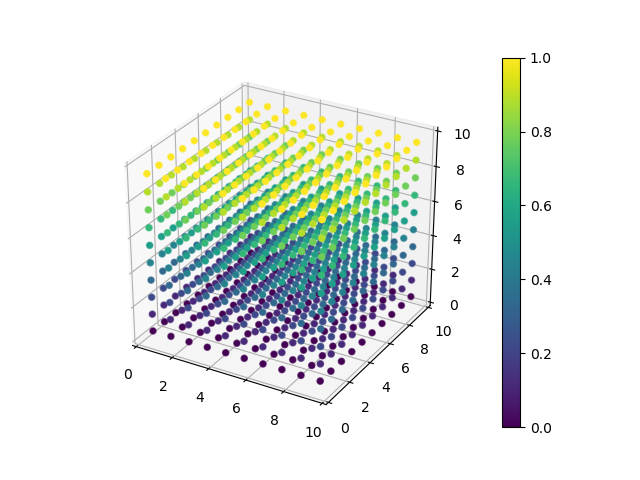
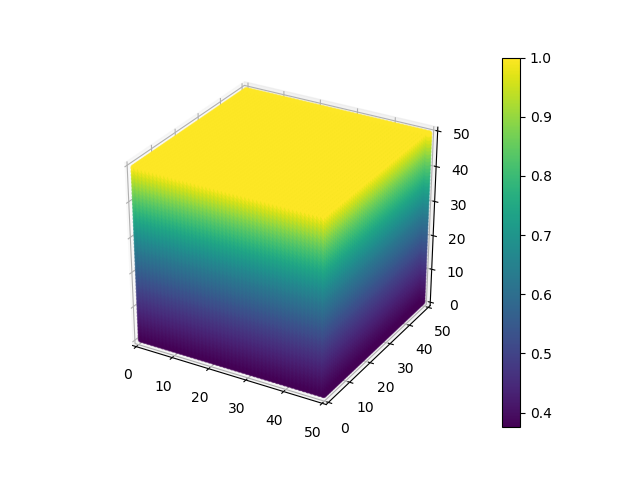
The implementation has been rewritten with certain parts as objects. Grids and scattering events can be defined separately, allowing grids to be re-used. Molecule types have been introduced, allowing a variety of phase functions to be applied. Currently the molecule to scatter from is chosen randoml

diff --git a/scatterer.py b/scatterer.py
@@ -1,11 +1,81 @@
 import numpy as np
+import matplotlib.pyplot as plt
+from mpl_toolkits.mplot3d import Axes3D
+
+# Possibly needs to become an inherited class to
+# allow for different phase functions. Need to think about this.
+class Molecule:
+    def __init__(self, name="no name", phase_SD=np.pi/4):
+        """A class to define molecules with different width phase functions
+        
+        Inputs
+        name : str
+            A name for the molecule, default 'no name'.
+        phase_SD : float
+            Standard deviation (radians) of the molecule's phase function.
+        """
+        self.name = name
+        self.phase_SD = phase_SD
+
+    def phase_func(self):
+        """Gaussian scattering phase function.
+        Returns
+            theta : float
+                A random azimuthal angle theta > 0 from a normal 
+                distribution centred on theta = 0.
+            phi : float
+                A random polar angle phi from a uniform
+                distribution in the range [0, 2*pi].
+        """
+        theta = np.abs(np.random.normal(loc=0.0, scale=self.phase_SD))
+        phi = np.random.uniform()*2*np.pi
+        return theta, phi
+
+    def z_abund_func(self, z):
+        """Simple exponential abundance function.
+        Input
+            z : float
+                Height above the surface, z=0.
+        Returns
+            A(z) : float
+                The relative abundance at height z. """
+        return np.exp(-z)
+
+class Grid:
+    def __init__(self, grid_size=(100,100,100), molecules=['arb']):
+        """A grid instance can be defined with a given grid size and
+        populated with a given set of molecules.
+
+        Inputs
+            grid_size : array-like shape=(3)
+                The number of grid cells along the (x, y, z) axes.
+            molecules : list
+                A list of molecules from the molculeDict to populate
+                the grid with.
+        """
+        self.grid_size = grid_size
+        self.abs_grid  = np.zeros(self.grid_size)
+        self.molecules = []
+        for mol in molecules:
+            self.molecules.append(moleculeDict.get(mol))
+        for i in range(self.grid_size[2]):
+            z = (grid_size[2]-i-1)/self.grid_size[2]
+            for molecule in self.molecules:
+                self.abs_grid[:, :, i] += molecule.z_abund_func(z)
+        self.abs_grid = self.abs_grid/len(self.molecules)
 
 class Scatter:
-    def __init__(self, grid_size=(100,100,100)):
-        self.grid_size = np.array(grid_size)
+    def __init__(self, grid):
+        """A scattering instance on a given grid.
+        Inputs:
+            grid : Grid object
+                An instance of a grid object on which to perform the
+                scattering.
+        """
+        self.grid = grid
 
-    def propagate(self, max_step=100, rand_seed=2):
-        """Propagate a photon through the grid
+    def propagate(self, max_step=999, rand_seed=None):
+        """Propagate a photon through the grid.
         
         Inputs
             max_step : int
@@ -15,46 +85,110 @@ class Scatter:
                 Used for initial position and tau value.
                 
         """
-        self._max_step = max_step
-        self._rand     = np.random.RandomState(rand_seed)
-        self.pos_vec   = np.append(rand[0], 0.) \
-            * self.grid_size # x,y position (z=0)
-        self.prp_vec   = _pol_to_cart( # entry angle (theta < pi/2)
-                np.insert(rand[1]*np.array([.5, 2.])*np.pi, 0, 1.)) 
-        self.max_tau   = -np.log(1 - rand.uniform()) # integrated path length
-        self.sum_tau   = 0.
+        self._max_step   = max_step
+        self._rand       = np.random.RandomState(rand_seed)
         
-        for nStep in range(self._max_steps):
-            self._cell = np.floor(self.pos_vec) # x,y,z indices of cell
-            if (0 > any(self._cell)) and any(self._cell > self.grid_size)
-            self._beta_ext   = self.abs_grid[tuple(self._cell)]
-            stop_len = None
+        rand = self._rand.uniform(size=(2,2))
+        self.pos_vec     = np.full((max_step+1, 3), np.nan)
+        self.pos_vec[0]  = np.append(rand[0], 0.) * self.grid.grid_size
+        self.prp_vec     = self._pol_to_cart(np.insert(rand[1]*np.array([.25, 2.])*np.pi,  0, 1.))
+        self.max_tau     = -np.log(1 - self._rand.uniform()) # integrated path length
+        self.sum_tau     = 0.
+        
+        self.left_grid = False
+        for n_step in range(max_step):
+            self._cell = np.floor(self.pos_vec[n_step]).astype(int) # x,y,z indices of cell
+            if (any(0 > self._cell)) or any(self._cell >= self.grid.grid_size):
+                self.left_grid = True
+                self.pos_vec[n_step] = np.array([np.nan, np.nan, np.nan])
+                break
+            stop_len = float('inf')
             for p in range(2): # iterate over cell point (0,0,0) and (1,1,1)
                 p0 = self._cell + p
                 for n in range(3): # iterate over x,y,z normal vectors 
-                    norm    = np.array([0.,0.,0.], dtype=float64)
+                    norm    = np.array([0.,0.,0.], dtype=np.float64)
                     norm[n] = 1.
-                    test_len = np.inner((p0 - self.pos_vec), norm) \
+                    test_len = np.inner((p0 - self.pos_vec[n_step]), norm) \
                                 / np.inner(self.prp_vec, norm)
                     # shortest positive intercept distance is exit point
-                    if 0. < test_len < exit_len:
+                    if 0. < test_len < stop_len:
                         stop_len = test_len
+            beta_ext   = self.grid.abs_grid[tuple(self._cell)]
             self.sum_tau += stop_len*beta_ext
             # check whether max_tau is reached along this path
             if self.sum_tau >= self.max_tau:
-                stop_len = (self.max_tau - self.sum_tau)/beta_ext
+                stop_len = (self.sum_tau - self.max_tau)/beta_ext
                 self.sum_tau = self.max_tau
-            self.pos_vec += stop_len*self.prp_vec
+            self.pos_vec[n_step + 1] = self.pos_vec[n_step] + stop_len*self.prp_vec
             if self.sum_tau is self.max_tau:
                 self._scatter()
     
     def _pol_to_cart(self, pol_vec):
-        """Convert vector from polar to Cartesian coordinates"""
+        """Convert vector from polar (r, theta phi) to Cartesian (x, y, z)"""
         x = pol_vec[0]*np.sin(pol_vec[1])*np.cos(pol_vec[2])
         y = pol_vec[0]*np.sin(pol_vec[1])*np.sin(pol_vec[2])
         z = pol_vec[0]*np.cos(pol_vec[1])
         return np.array([x, y, z])
+
+    def _cart_to_pol(self, cart_vec):
+        """Convert vector from Cartesian (x, y, z) to Polar (r, theta phi)"""
+        r = np.sqrt(np.sum(cart_vec**2))
+        theta = np.arccos(cart_vec[2]/r)
+        phi = np.arctan(cart_vec[1]/cart_vec[0])
+        if np.isnan(phi):
+            phi = 0.
+        elif cart_vec[0] < 0:
+            phi = phi + np.pi
+        return np.array([r, theta, phi])
         
+    def _scatter(self):
+        """Scatter the photon from a molecule following some phase function"""
+        rand_mol  = np.random.randint(0, high=len(self.grid.molecules))
+        theta_, phi_ = self.grid.molecules[rand_mol].phase_func()
+        new_prp_ = self._pol_to_cart(np.array([1., theta_, phi_]))
+        r, theta, phi = self._cart_to_pol(self.prp_vec)
+        Ry = np.array([[np.cos(theta), 0., np.sin(theta)],
+                       [0., 1., 0.],
+                       [-np.sin(theta), 0., np.cos(theta)]])
+        Rz = np.array([[np.cos(phi), -np.sin(phi), 0.],
+                       [np.sin(phi), np.cos(phi), 0.],
+                       [0., 0., 1.]])
+        new_prp = np.dot(Rz, np.dot(Ry, new_prp_))
+        self.prp_vec = new_prp
+        self.sum_tau = 0.
+        return self
 
+# A dictionary of molecules
+moleculeDict = {
+    "arb": Molecule(name = "arbitrary") # arbitrary molecules
 
+# Define a 100 x 100 x 100 grid with default molecules
+gridA = Grid(grid_size=(100,100,100))
 
+## For plotting the grid of absorption values
+# fig = plt.figure()
+# ax = fig.gca(projection='3d')
+# gridInds = np.indices(gridA.grid_size)+.5
+# p = ax.scatter(gridInds[0], gridInds[1], gridInds[2], c=gridA.abs_grid.flatten(), marker='o')
+# fig.colorbar(p)
+# ax.set_xlim(0, gridA.grid_size[0])
+# ax.set_ylim(0, gridA.grid_size[1])
+# ax.set_zlim(0, gridA.grid_size[2])
+# plt.savefig('C(z).png')
+# plt.show()
+
+fig = plt.figure()
+ax = fig.gca(projection='3d')
+
+# Perform 100 scatter instances on the grid and plot
+scatters = []
+for i in range(100):
+    scatters.append(Scatter(gridA))
+    scatters[i].propagate()
+    points = scatters[i].pos_vec.T
+    ax.plot(points[0], points[1], points[2])
+ax.set_xlim(0, gridA.grid_size[0])
+ax.set_ylim(0, gridA.grid_size[1])
+ax.set_zlim(0, gridA.grid_size[2])
+plt.savefig('traces2.png')
+plt.show()

diff --git a/test.py b/test.py
@@ -1,16 +1,60 @@
 from time import process_time as time
 import numpy as np
 
+def pol_to_cart(pol_vec):
+    """Convert vector from polar (r, theta phi) to Cartesian (x, y, z)"""
+    x = pol_vec[0]*np.sin(pol_vec[1])*np.cos(pol_vec[2])
+    y = pol_vec[0]*np.sin(pol_vec[1])*np.sin(pol_vec[2])
+    z = pol_vec[0]*np.cos(pol_vec[1])
+    return np.array([x, y, z])
 
-#start = time()
-#for j in range(100000):
-#    for i in range(3):
-#        y = np.roll([1.,0.,0.], i)
-#print(time()-start)
-#
-#start = time()
-#for j in range(100000):
-#    for i in range(3):    
-#        x = np.array([0., 0., 0.])
-#        x[i] = 1.
-#print(time()-start)
+def cart_to_pol(cart_vec):
+    """Convert vector from Cartesian (x, y, z) to Polar (r, theta phi)"""
+    r = np.sqrt(np.sum(cart_vec**2))
+    theta = np.arccos(cart_vec[2]/r)
+    phi = np.arctan(cart_vec[1]/cart_vec[0])
+    if np.isnan(phi):
+        phi = 0.
+    elif cart_vec[0] < 0.:
+        phi = phi + np.pi
+    return np.array([r, theta, phi])
+
+vec1 = np.array([-0.38434178,  0.16539601,  0.90825412])
+vec1 = vec1/np.sqrt(np.sum(vec1**2))
+x2 = np.array([1., 0., 0.])
+y2 = np.array([0., 1., 0.])
+z2 = np.array([0., 0., 1.])
+vec2 = np.array([0, 0, 1.])
+r, theta, phi = cart_to_pol(vec1)
+
+Ry = np.array([[np.cos(theta), 0., np.sin(theta)],
+                [0., 1., 0.],
+                [-np.sin(theta), 0., np.cos(theta)]])
+Rz = np.array([[np.cos(phi), -np.sin(phi), 0.],
+                [np.sin(phi), np.cos(phi), 0.],
+                [0., 0., 1.]])
+
+new_vec = np.dot(Rz, np.dot(Ry, vec2))
+new_x2 = np.dot(Rz, np.dot(Ry, x2))
+new_y2 = np.dot(Rz, np.dot(Ry, y2))
+new_z2 = np.dot(Rz, np.dot(Ry, z2))
+# new_vec = np.dot(Ry, vec2)
+# new_x2 = np.dot(Ry, x2)
+# new_y2 = np.dot(Ry, y2)
+# new_z2 = np.dot(Ry, z2)
+
+print(vec2, new_vec)
+
+import matplotlib.pyplot as plt
+from mpl_toolkits.mplot3d import Axes3D
+
+fig = plt.figure()
+ax = fig.gca(projection='3d')
+for i, vec in enumerate([vec1, vec2, new_x2, new_y2, new_z2, new_vec]):
+    ax.plot([0,vec[0]], [0, vec[1]], [0, vec[2]], label='{0}'.format(i))
+ax.set_xlim(-1, 1)
+ax.set_ylim(-1, 1)
+ax.set_zlim(-1, 1)
+plt.legend()
+plt.savefig('traces2.png')
+plt.show()

diff --git a/scatter.py b/scatter.py
@@ -52,16 +52,16 @@ grid.fill("pressure", p0=1, T0=1, g=1, L=1, M=8.31447)
 #grid.fill("constant")
 
 # Plot C(z) function for checking
-# fig = plt.figure(1)
-# ax = fig.gca(projection='3d')
-# gridInds = indices(gridSize)+0.5
-# p = ax.scatter(gridInds[0], gridInds[1], gridInds[2], c=grid.abs.flatten(), marker='o')
-# fig.colorbar(p)
-# ax.set_xlim(0, gridSize[0])
-# ax.set_ylim(0, gridSize[1])
-# ax.set_zlim(0, gridSize[2])
-# plt.savefig('C(z).png')
-# plt.show()
+fig = plt.figure(1)
+ax = fig.gca(projection='3d')
+gridInds = indices(gridSize)+0.5
+p = ax.scatter(gridInds[0], gridInds[1], gridInds[2], c=grid.abs.flatten(), marker='o')
+fig.colorbar(p)
+ax.set_xlim(0, gridSize[0])
+ax.set_ylim(0, gridSize[1])
+ax.set_zlim(0, gridSize[2])
+plt.savefig('C(z).png')
+plt.show()
 
 # Prepare figure for particles plot
 fig = plt.figure(2)
